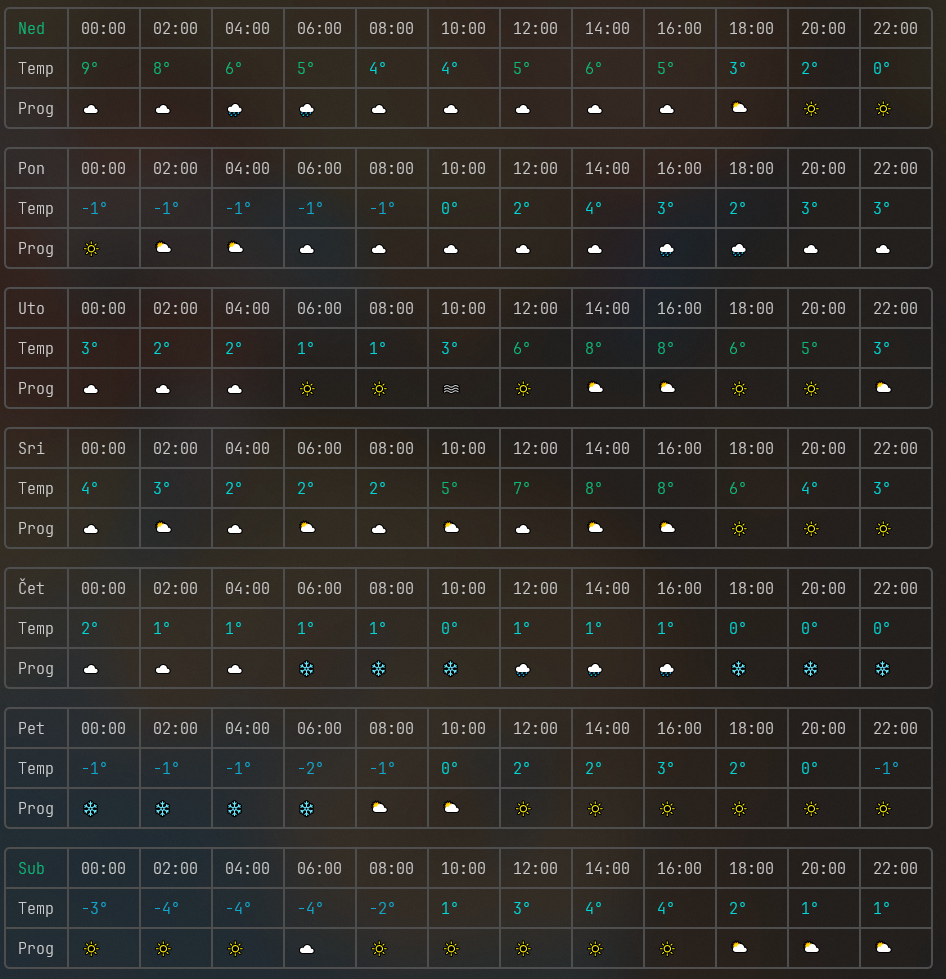
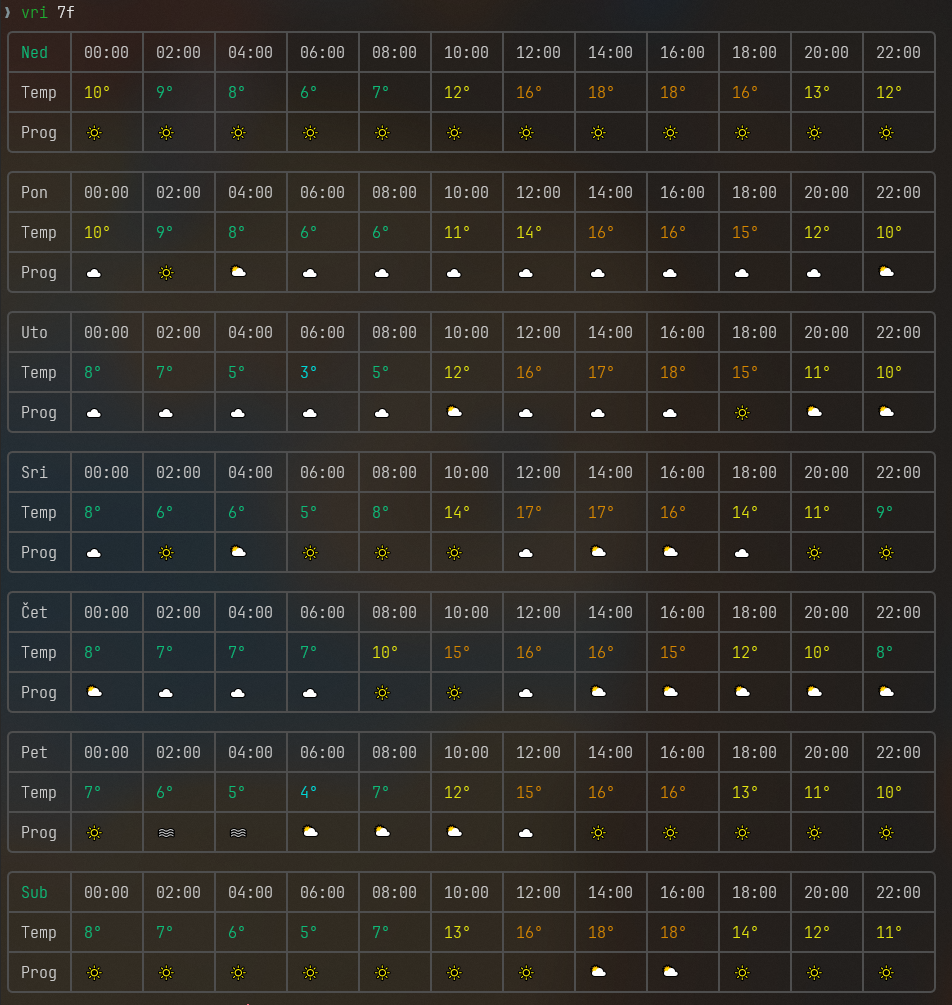
readme

Changed region(s): [[0.0, 0.0, 1.0, 1.0], [0.5211, 0.9193, 0.5825, 0.9499]]

diff --git a/README.md b/README.md
@@ -35,5 +35,5 @@ alias temp='uv run ~/path/to/temperatura.py'
 
 ## Planned
 
-- [ ] Combine API calls into a single request to reduce latency
+- [x] Combine API calls into a single request to reduce latency
 - [ ] Sunrise/sunset display between today and 7-day tables
